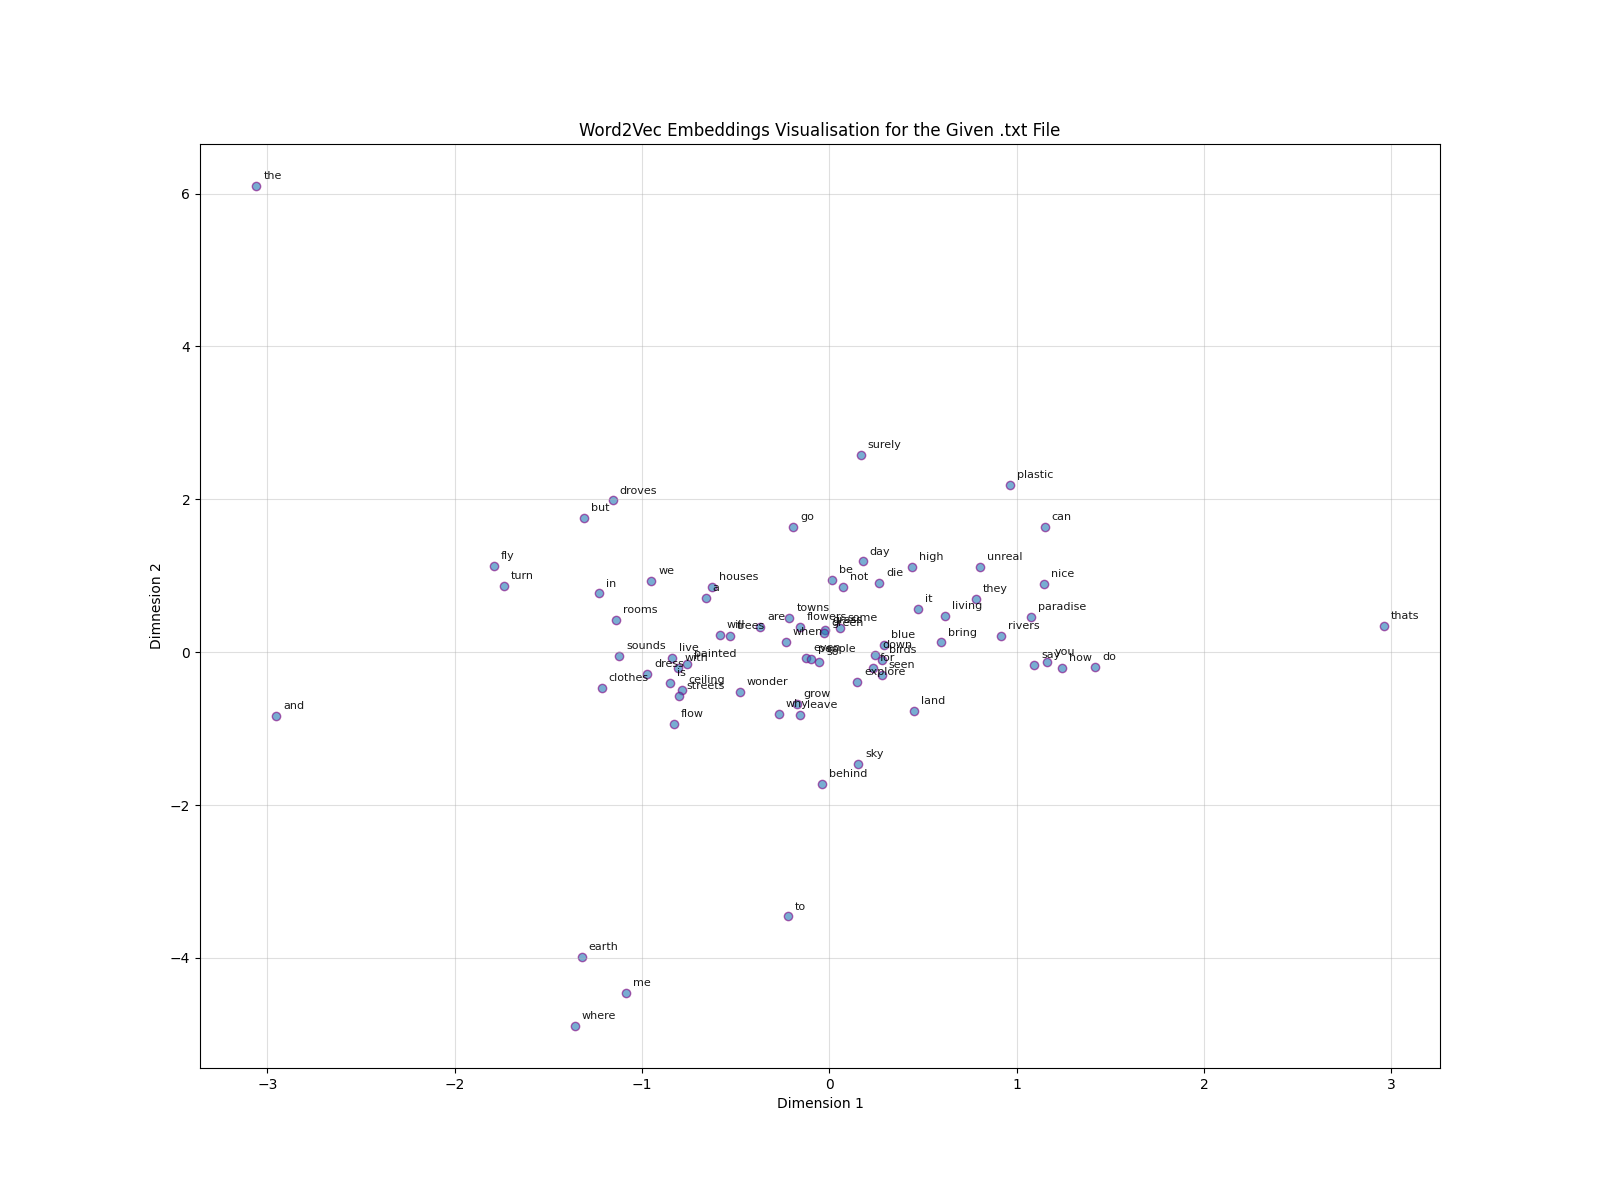
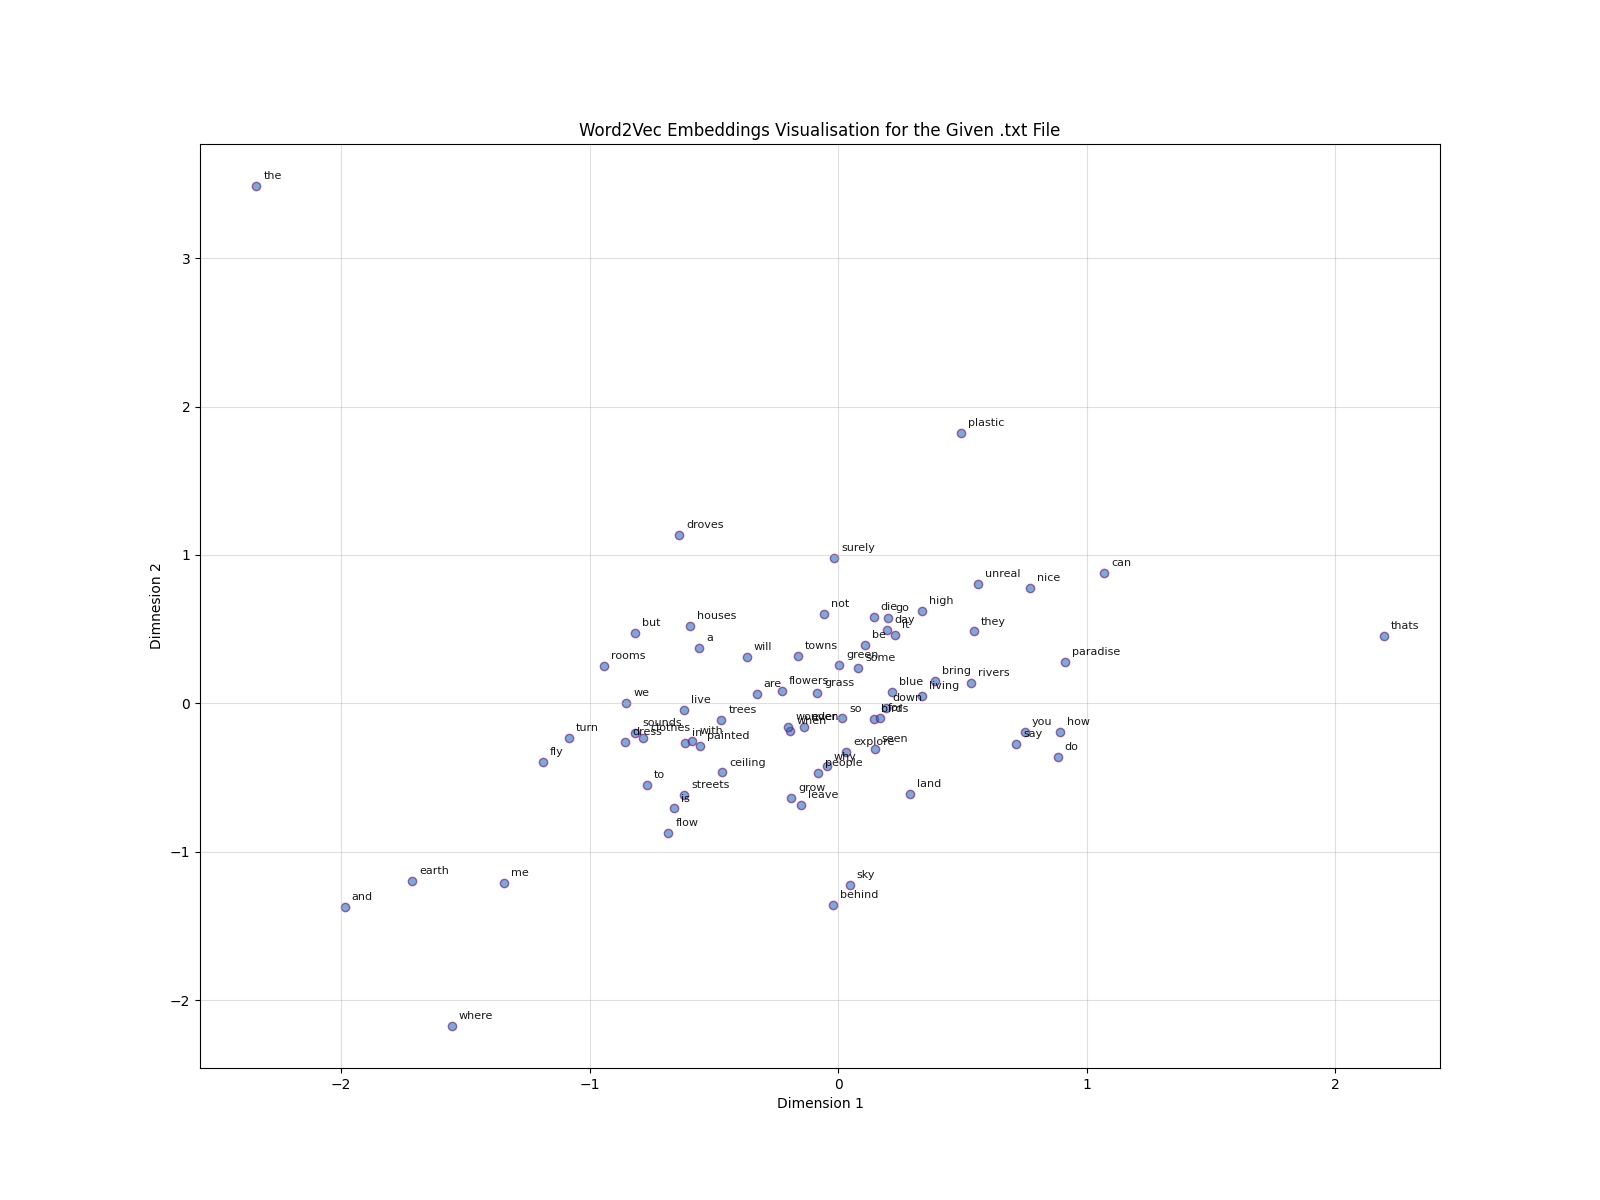
change loss nad training to process batches

diff --git a/src/word2vec_implementation.py b/src/word2vec_implementation.py
@@ -7,19 +7,21 @@ class Word2Vec:
         dataset: list[str],
         context_window_size: int = 2,
         embedding_dimension: int = 3,
-        learning_rate: float = 0.0001,
         random_seed: int = 42,
         logger=None,
+        learning_rate: float = 0.01,
         save_every: int = 500,
+        batch_size: int = 16,
     ):
         np.random.seed(random_seed)
 
         self.dataset = self.process_vocabulary(dataset)
         self.context_window_size = context_window_size
         self.embedding_dimension = embedding_dimension
-        self.learning_rate = learning_rate
         self.logger = logger
+        self.learning_rate = learning_rate
         self.save_every = save_every
+        self.batch_size = batch_size
 
         self.vocabulary, self.vocabulary_size = self.create_vocabulary()
 
@@ -105,8 +107,10 @@ class Word2Vec:
 
         output_layer = hidden_layer @ self.output_embeddings_matrix.T
         output_layer_clipped = np.clip(output_layer, -20, 20)
-        softmax_output_score = np.exp(output_layer_clipped) / (
-            1e-15 + np.sum(np.exp(output_layer_clipped))
+
+        exp_scores = np.exp(output_layer_clipped)
+        softmax_output_score = exp_scores / (
+            1e-15 + np.sum(exp_scores, axis=1, keepdims=True)
         )
 
         self.cache = {
@@ -118,44 +122,43 @@ class Word2Vec:
         return softmax_output_score
 
     def loss(self, y_true, y_pred):
-        target_idx = np.argmax(y_true)
-
-        target_prob = y_pred[target_idx]
         epsilon = 1e-15
-        target_prob = np.clip(target_prob, epsilon, 1 - epsilon)
+        y_pred = np.clip(y_pred, epsilon, 1 - epsilon)
 
-        loss_value = -np.log(target_prob)
-        return loss_value
+        loss_value = -np.sum(y_true * np.log(y_pred), axis=1)
+        mean_loss = np.mean(loss_value)
+        return mean_loss
 
     def backpropagation(self, y_true):
-        target_idx = np.argmax(y_true)
-
         softmax_output_score = self.cache["softmax_output_score"]
-        grad_output_score = softmax_output_score.copy()
-        grad_output_score[target_idx] -= 1
+        grad_output_score = softmax_output_score.copy() - y_true
 
         hidden_layer = self.cache["hidden_layer"]
-        grad_output_embeddings = np.outer(grad_output_score, hidden_layer)
+        grad_output_embeddings = grad_output_score.T @ hidden_layer
 
         grad_hidden_layer = grad_output_score @ self.output_embeddings_matrix
 
         input_vector = self.cache["input_vector"]
-        grad_input_embeddings = np.outer(input_vector, grad_hidden_layer)
+        grad_input_embeddings = input_vector.T @ grad_hidden_layer
 
         return grad_input_embeddings, grad_output_embeddings
 
-    def update_weights(self, grad_input, grad_output):
-        self.input_embeddings_matrix -= grad_input * self.learning_rate
-        self.output_embeddings_matrix -= grad_output * self.learning_rate
+    def update_weights(self, grad_input, grad_output, batch_size):
+        self.input_embeddings_matrix -= (grad_input / batch_size) * self.learning_rate
+        self.output_embeddings_matrix -= (grad_output / batch_size) * self.learning_rate
 
-    def train_step(self, input_vector, y_true):
-        y_pred = self.forward(input_vector)
-        loss_value = self.loss(y_true, y_pred)
-        grad_input_embeddings, grad_output_embeddings = self.backpropagation(y_true)
-        self.update_weights(grad_input_embeddings, grad_output_embeddings)
+    def train_step(self, input_batch, y_true_batch):
+        y_pred_batch = self.forward(input_batch)
+        loss_value = self.loss(y_true_batch, y_pred_batch)
+        grad_input_embeddings, grad_output_embeddings = self.backpropagation(
+            y_true_batch
+        )
+        self.update_weights(
+            grad_input_embeddings, grad_output_embeddings, input_batch.shape[0]
+        )
         return loss_value
 
-    def train(self, epochs=100):
+    def train(self, epochs=100, batch_size=16):
         n_examples = len(self.inputs)
         losses = []
 
@@ -163,10 +166,12 @@ class Word2Vec:
             total_loss = 0
             indices = np.random.permutation(n_examples)
 
-            for input_idx in indices:
-                loss = self.train_step(self.inputs[input_idx], self.outputs[input_idx])
-                total_loss += loss
-            total_loss /= n_examples
+            for start in range(0, n_examples, self.batch_size):
+                batch_idx = indices[start : start + self.batch_size]
+                input_batch = self.inputs[batch_idx]
+                output_batch = self.outputs[batch_idx]
+                loss = self.train_step(input_batch, output_batch)
+                total_loss += loss * len(batch_idx)
 
             if epoch_idx % self.save_every == 0:
                 self.logger.info(

diff --git a/src/example.py b/src/example.py
@@ -3,7 +3,14 @@ from pathlib import Path
 
 from src.word2vec_implementation import Word2Vec
 from src.config.logger_config import setup_logging
-from src.config.constants import PLOTS_DIR, NUMBER_OF_EPOCHS, SAVE_EVERY, CONFIG_DIR
+from src.config.constants import (
+    PLOTS_DIR,
+    NUMBER_OF_EPOCHS,
+    BATCH_SIZE,
+    SAVE_EVERY,
+    CONFIG_DIR,
+    LEARNING_RATE,
+)
 
 log = setup_logging(__name__)
 
@@ -38,7 +45,15 @@ def plot_scatterplot(embeddings, save_file):
 
 if __name__ == "__main__":
     text = Path(CONFIG_DIR / "text_example.txt").read_text()
-    w2v = Word2Vec(text, embedding_dimension=2, logger=log, save_every=SAVE_EVERY)
+    w2v = Word2Vec(
+        dataset=text,
+        embedding_dimension=2,
+        logger=log,
+        learning_rate=LEARNING_RATE,
+        save_every=SAVE_EVERY,
+        batch_size=BATCH_SIZE,
+    )
+    print(w2v.vocabulary_size)
     w2v.train(epochs=NUMBER_OF_EPOCHS)
 
     embeddings = w2v.get_word_embeddings()

diff --git a/src/config/constants.py b/src/config/constants.py
@@ -5,5 +5,7 @@ LOGS_DIR = ROOT_DIR / "figures" / "logs"
 PLOTS_DIR = ROOT_DIR / "figures" / "plots"
 CONFIG_DIR = ROOT_DIR / "src" / "config"
 
-NUMBER_OF_EPOCHS = 20_000
-SAVE_EVERY = 500
+NUMBER_OF_EPOCHS = 100_000
+BATCH_SIZE = 8
+SAVE_EVERY = 1_000
+LEARNING_RATE = 0.0005
